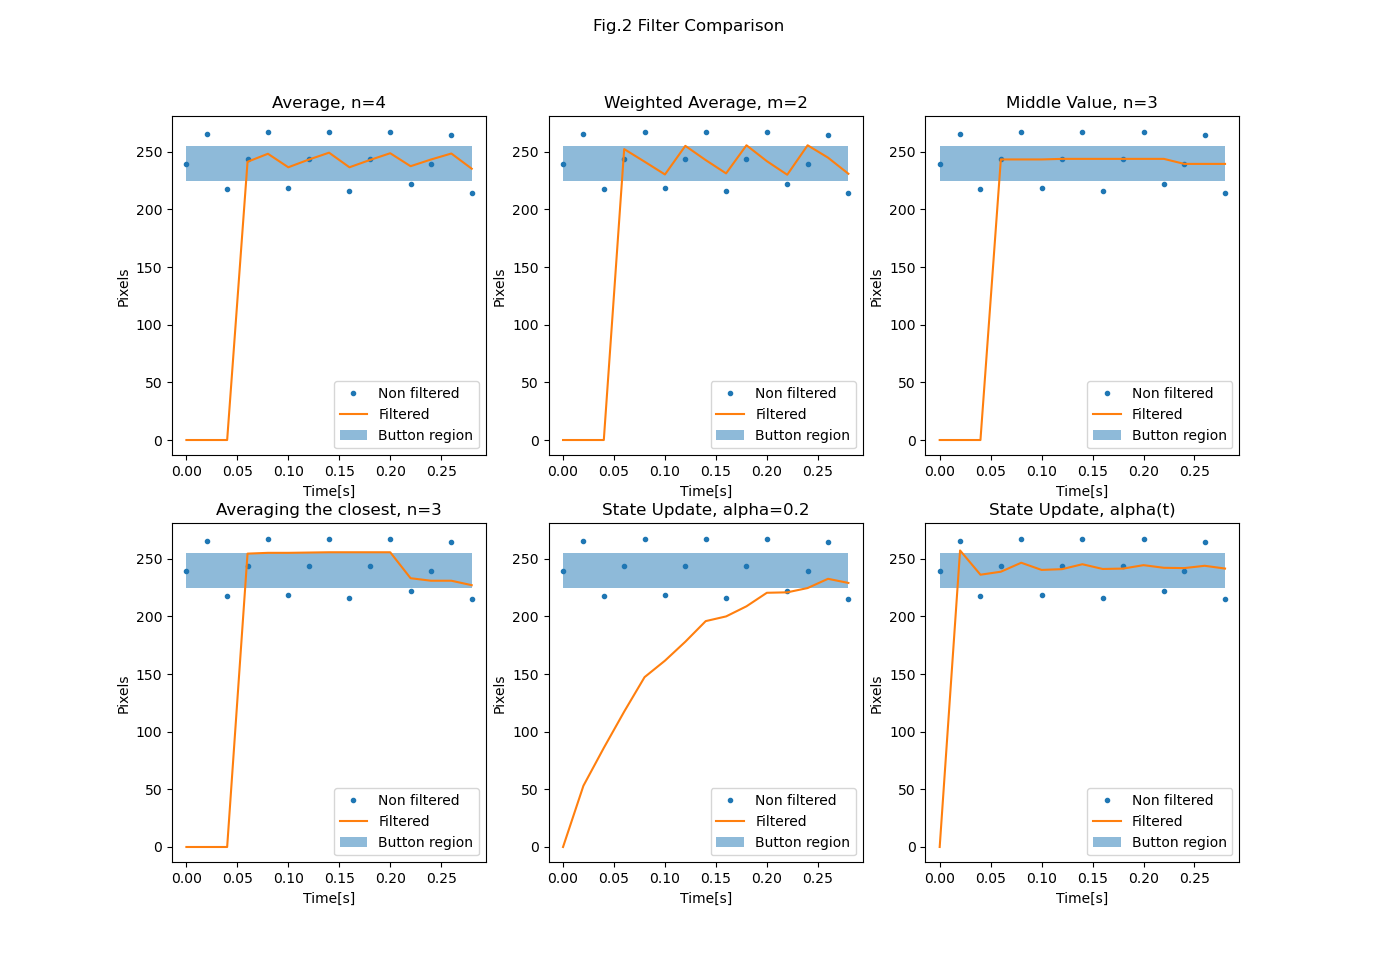
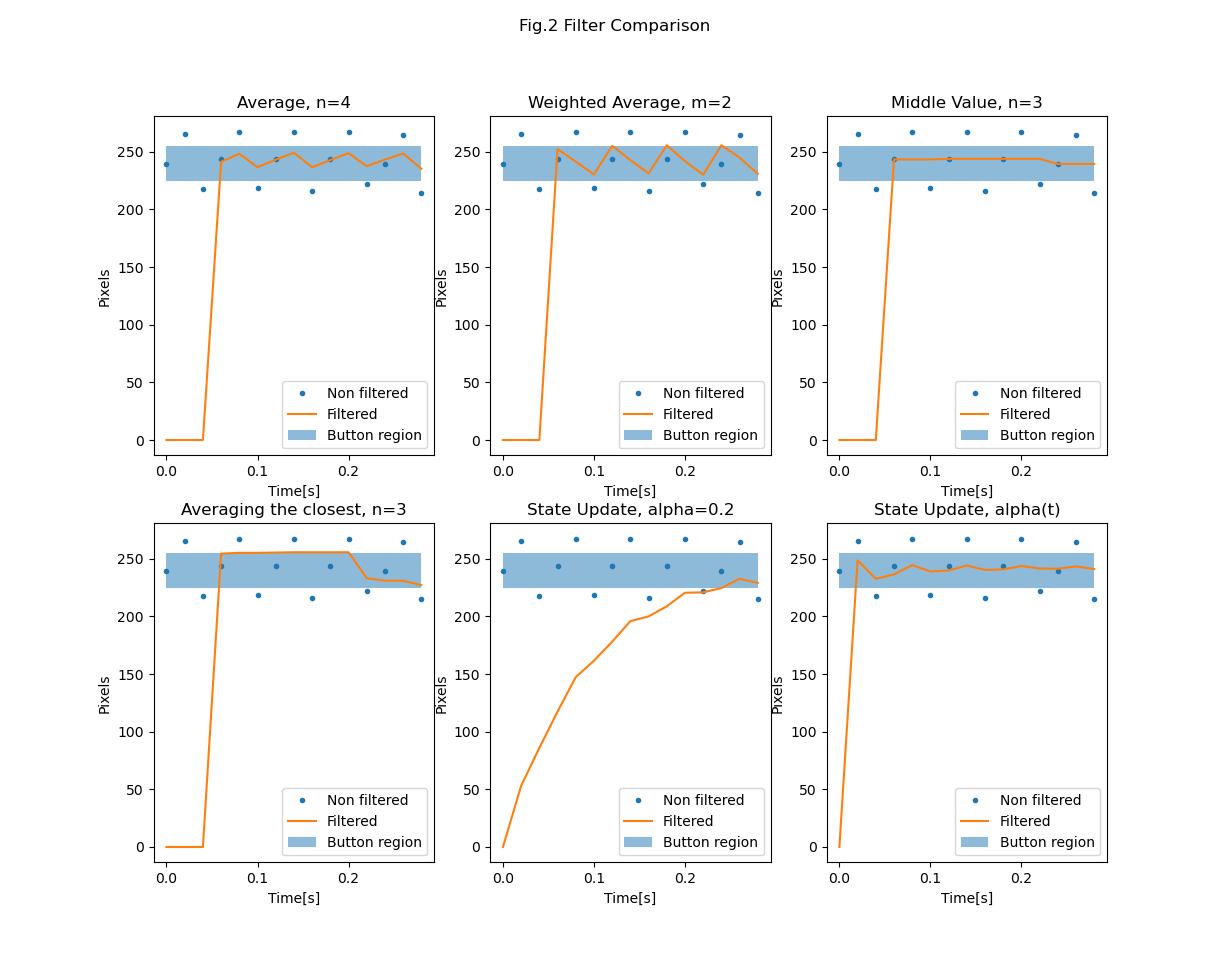
modified:   README.md

diff --git a/ui/src/Touch.c b/ui/src/Touch.c
@@ -131,20 +131,21 @@ unsigned char  Lcd_Touch_Calibration()
  *          alpha_1, so the filter has a faster response but poor
  *          denoising ability. 
  *
- * alpha_1: The target alpha, it's the value that performes well over.
+ * alpha_1: The target alpha, it's the value that performs well over
+ *			time.
  * 
  * sigma:   The rate of decrease, how fast alpha0 is going to alpha1.
  *
  * author: C. Alvarado
  *
  * { */
-#define ALPHA10_X   5.999 // alpha1 - alpha0
+#define ALPHA10_X   5.799 // alpha1 - alpha0
 #define ALPHA1_X    0.001
 #define SIGMA_X     260.0
 #define DELTA_T		0.02
 
 static void state_update_extended(int *x, uint8_t *trigger) {
-    volatile static int16_t x_estimated = 0;
+    static int16_t x_estimated = 0;
     static float t = 0.0;
     float alpha_x;
 	
@@ -159,7 +160,7 @@ static void state_update_extended(int *x, uint8_t *trigger) {
 
     alpha_x = ALPHA1_X + ALPHA10_X / (SIGMA_X * t + 1.0);
     x_estimated = x_estimated + alpha_x * (*x - x_estimated);
-    *x = x_estimated;
+    *x = (int) x_estimated;
 }
 
 /* } */

diff --git a/software/touch/filter.py b/software/touch/filter.py
@@ -129,7 +129,7 @@ xmv = middle_value(x)
 xac = averaging_da_closest(x)
 xsu = state_update(x, 0.20)
 xsu2 = state_update2(x, 40.0, 0.001, 750.0)
-xsu3 = state_update2(x, 6.0, 0.001, 260.0)
+xsu3 = state_update2(x, 5.8, 0.001, 260.0)
 
 print("Calibrated, std = {}".format(np.std(x)))
 print("Average-4, std = {}".format(np.std(xa4)))

diff --git a/README.md b/README.md
@@ -59,10 +59,12 @@ In the main board, the app was built based on ErikaRTOSv2, which is divided in 6
 
   Triggered each 20 ms, it checks if the LCD has being touched. An event-triggered filter was implemented in order to reduce the noise of the coordinates when the panel gets touched. The figure Fig.1 shows the x axis pixels upon touching the Spotify Icon button for 10.24 seconds (512 samples). As seen the x-axis data ranges from 200px to 280px,  falling only 211 samples  within the icon's dimension out of 512 samples.
 
-  ![image](data/img/touch_screen_x_data.png)
+  ![image](data/img/touch_screen_x_data.png "Fig.1 Touch Screen x-axis data")
 
   Some noise can be allowed whilst the double of standard deviation is as smaller as the button's dimension, in this case a button covers 30x30 pixels and the standard deviations of the touchscreen are the followings for each axis:
-  $$\sigma_x = 22.88px, \sigma_y = 3.98px$$
+  $$ {sdasd}
+  \sigma_x = 22.88px, \sigma_y = 3.98px
+  $$
   Y-axis doesn't need a filter as long as the touched coordinate is close to centre of the button, while the x-axis does need to be filtered.
 
   There's an [application report](https://www.ti.com/lit/an/sbaa155a/sbaa155a.pdf?ts=1717523545771&ref_url=https%253A%252F%252Fwww.ti.com%252Fproduct%252FTSC2046E%253FkeyMatch%253DTSC2046EIRGVR%2526tisearch%253Dsearch-everything%2526usecase%253DOPN-ALT) by W. Fang where 4 non linear filters are suggested for resistive touchscreens: 
@@ -75,12 +77,53 @@ In the main board, the app was built based on ErikaRTOSv2, which is divided in 6
 
   - Average the closest with _N = 3_ samples.
 
-  They were all tested using the raw data from Fig.1 and the results are shown in Fig.2. Two additional filteres were explored, the [State Update Equation](https://www.kalmanfilter.net/alphabeta.html) with a fixed $\alpha$ and another with $\alpha(t)$:
+  They were all tested using the raw data from Fig.1 and the results are shown in Fig.2. Two additional filters were explored, the [State Update Equation](https://www.kalmanfilter.net/alphabeta.html) _(1)_ with a fixed $\alpha$ and another _(2)_ with $\alpha(t)$:
+
+  $$
+  \hat{x}_{n,n} =\hat{x}_{n,n-1} + \alpha(z_n-\hat{x}_{n,n-1})\,\,\,\,\,\,\,\,\,\,\,\,\,\,\,\,\,\,\,\,\,\,(1)
+  $$
+  and
+  $$
+  \hat{x}_{n,n} =\hat{x}_{n,n-1} + \alpha(t)(z_n-\hat{x}_{n,n-1}) \,\,\,\,\,\,\,\,\,\,\,\,\,\,\,\,\,\,\,\,\,\,(2)
+  $$
+
+  $$
+  \alpha(t) = \alpha_1+\frac{\alpha_0-\alpha_1}{\sigma t + 1} | \alpha_0>\alpha_1>0 \and \sigma > 0\,\,\,\,\,\,\,\,(3)
+  $$
+
   
-  $$\hat{x}_{n,n} =\hat{x}_{n,n-1} + \alpha(z_n-\hat{x}_{n,n-1})   (1)$$
-   and
-  $$\hat{x}_{n,n} =\hat{x}_{n,n-1} + \alpha(t)(z_n-\hat{x}_{n,n-1})$$
-  $$\alpha(t) = \alpha_1+\frac{\alpha_0-\alpha_1}{\sigma t + 1}$$
+
+  ![image](data/img/filter_comparison.png "Filter Comparison")
+
+  In Fig.2, only a small window frame of 250ms is shown because pushing a button takes less than 1 second, so the purpose is to see which filter is the fastest one; since all filters kept the signal within the range of the button. Filters such as _Weighted Average_ and _Averaging the Closest_ are operating on the boundaries, discarded. On the other hand _State Update_ is the slowest among all, discarded as well, however _State Update_ with $\alpha(t)$ takes the signal to the button region in the second samples (20ms).
+
+  Equation _(2)_ is quite similar to a Kalman filter, but, instead $\alpha$ depending on the variance of the process and the measure, it only leads $\alpha_0$ to become $\alpha_1$ at the rate of $\sigma$ (_+1_ is to avoid division by zero). This is due that a large $\alpha$ have a fast response but performs poorly at removing noise (used when touched) while a small $\alpha$ performs good at removing noise but is really slow, so the idea behind it is to change $\alpha$ over time so the signal reaches the desired level as soon as possible and then removes the noise.  This is implemented in a way that the $t$ gets resetted when there's a touch:
+
+  ```c
+    1 #define ALPHA10_X   5.799 // alpha1 - alpha0                                     
+    2 #define ALPHA1_X    0.001                                                         
+    3 #define SIGMA_X     260.0                                                         
+    4 #define DELTA_T     0.02                                                         
+    5                                                                                   
+    6 static void state_update_extended(int *x, uint8_t *trigger) {
+    7     static int16_t x_estimated = 0;
+    8     static float t = 0.0;
+    9     float alpha_x;
+   10
+   11     if (*trigger) {                 
+   12         t = t + DELTA_T;
+   13     } else {
+   14         t = 0.0;     
+   15         x_estimated = 0; 
+   16     }                                                                              17                                                                                   
+   18     *trigger = 1;
+   19
+   20     alpha_x = ALPHA1_X + ALPHA10_X / (SIGMA_X * t + 1.0);                 
+   21     x_estimated = x_estimated + alpha_x * (*x - x_estimated);
+   22     *x = (int) x_estimated;
+   23 }  
+  ```
+
   
 
   
